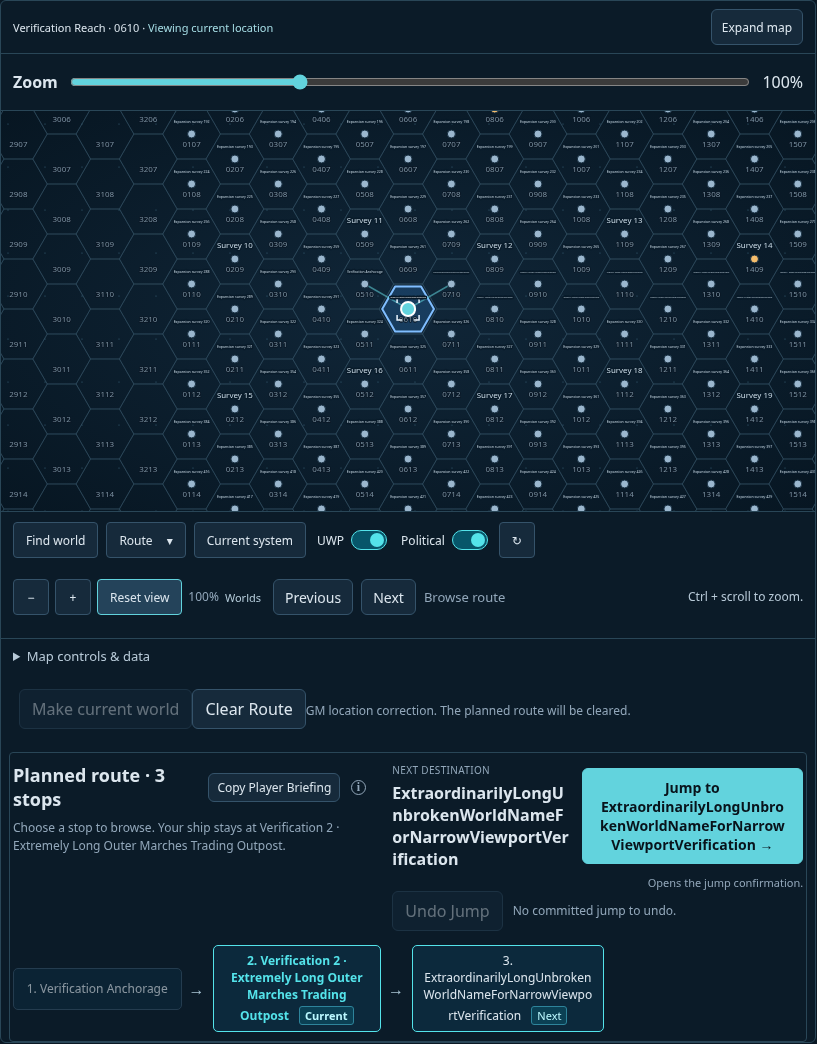
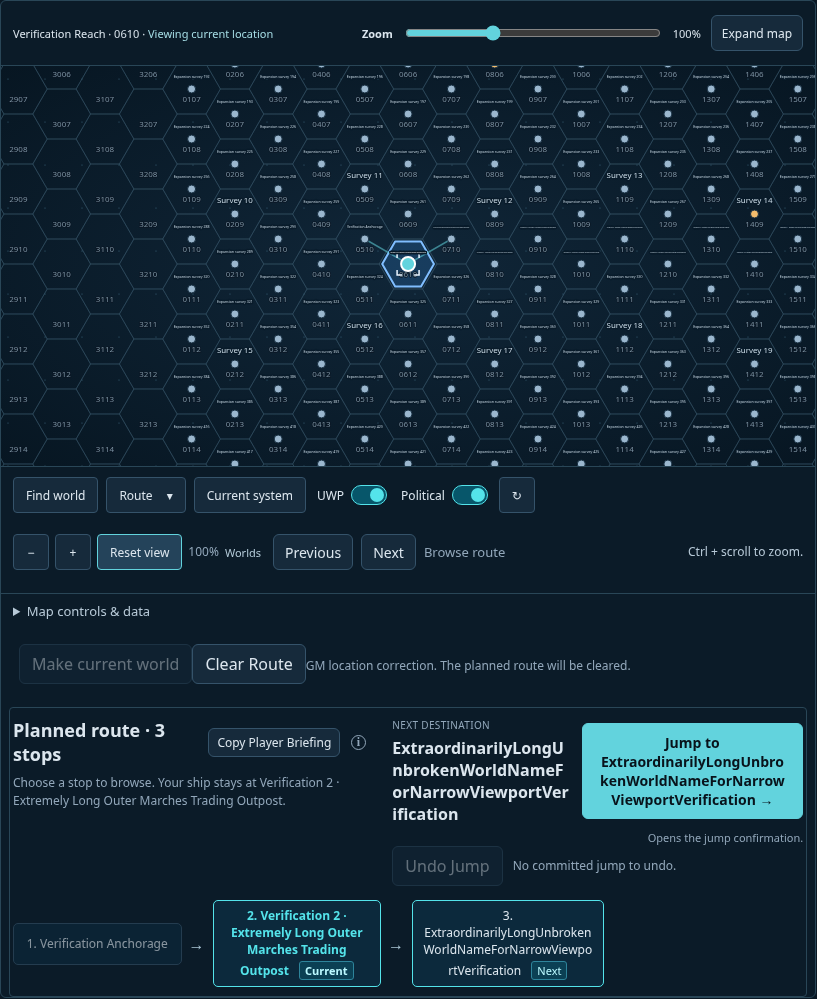
Place map zoom slider between location and Expand controls

diff --git a/tools/trade-route-calculator/style.css b/tools/trade-route-calculator/style.css
@@ -535,5 +535,7 @@ main{padding-top:18px}
 
 .player-link-controls{display:flex;align-items:center;gap:1rem;flex-wrap:wrap;padding:.75rem 1rem;border:1px solid #376076;border-radius:.6rem;margin:.5rem 0}.player-link-controls button{font-size:1rem;min-height:44px;background:#62d3dd;color:#061b25;border-color:#62d3dd;font-weight:700}.player-link-controls .help{flex:1;min-width:160px;overflow-wrap:anywhere}
 
-.map-zoom-slider{display:flex;align-items:center;gap:10px;padding:4px 12px;border-bottom:1px solid var(--line)}
+.navigation-panel .map-caption{display:grid;grid-template-columns:minmax(0,1fr) minmax(160px,1fr) auto;align-items:center}.map-location #map-load-status{display:block}.map-zoom-slider{display:flex;align-items:center;gap:10px;min-width:0;padding:0}
 .map-zoom-slider label{font-weight:600}.map-zoom-slider input{flex:1;min-width:0;min-height:44px;padding:0;accent-color:#62d3dd}.map-zoom-slider output{min-width:4ch;text-align:right;font-variant-numeric:tabular-nums}
+
+@media(max-width:620px){.navigation-panel .map-caption{grid-template-columns:minmax(0,1fr) auto}.map-zoom-slider{grid-column:1/-1;grid-row:2}.map-caption .map-expand-toggle{grid-column:2;grid-row:1}}

diff --git a/tools/trade-route-calculator/README.md b/tools/trade-route-calculator/README.md
@@ -902,7 +902,8 @@ filter off restores every matching offer and permits 100%+ purchases. This is a
 display preference, not a transaction restriction or a profit guarantee. It does
 not edit saved offers or the campaign.
 
-A keyboard-accessible **Zoom** slider sits directly above the main map and uses
+A keyboard-accessible **Zoom** slider sits in the header above the main map,
+between the location label and Expand map on desktop (stacked on phones), and uses
 the existing 6%–288% range. Buttons, Ctrl+scroll, Reset view and the slider stay
 synchronized; selected worlds, pan center, expanded mode and campaign data retain
 their existing behavior. Arrow keys and Home/End work on the slider.
